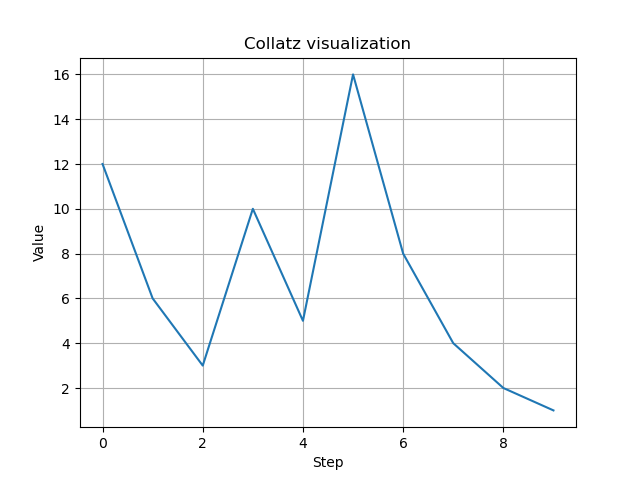
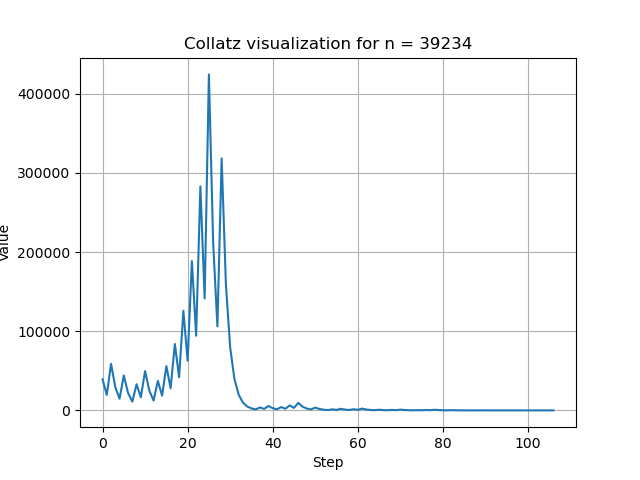
About Collatz.ipynb done

diff --git a/classes/Calculator/NumbersSequences/Collatz.py b/classes/Calculator/NumbersSequences/Collatz.py
@@ -10,6 +10,7 @@ class Collatz:
 
     def make_arr(self):
         num = self.n  # Kopiujemy wartość początkową do zmiennej lokalnej
+        steps = 0
         self.results.append(num)
         while num != 1:
             if num % 2:
@@ -29,10 +30,15 @@ class Collatz:
         plt.grid(True)
         plt.xlabel('Step')
         plt.ylabel('Value')
-        plt.title('Collatz visualization')
+        plt.title('Collatz visualization for n = ' + str(self.n))
 
         plot_directory = os.path.join(os.path.dirname(os.path.abspath(__file__)), 'visualization')
         os.makedirs(plot_directory, exist_ok=True)
         plt.savefig(os.path.join(plot_directory, 'collatz.png'))
         plt.show()
         plt.close()
+
+
+if __name__ == '__main__':
+    collatz = Collatz(27)
+    collatz.print_graph()
